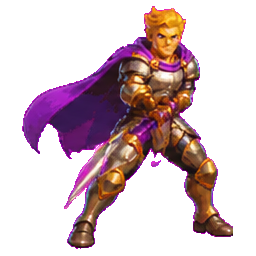
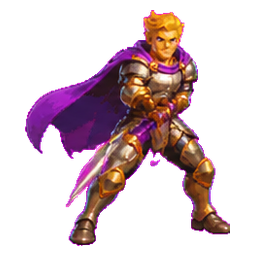
v584: 칼 잘림 수복 — 원시트 재슬라이스 256→236px 스케일(경계 여백 8% 확보), 19프레임 경계 접촉 클리핑 해소 — RUN_GATES:ALL_OK

Changed region(s): [[0.0625, 0.0312, 0.9062, 0.9688], [0.375, 0.375, 0.4062, 0.4062]]

diff --git a/royal-arena/index.html b/royal-arena/index.html
@@ -1215,7 +1215,7 @@ html body .info-box #btn-info-close{
   z-index:2 !important}
 html body .info-box #btn-info-close,html body .info-box #btn-info-close *{color:#2b1c05 !important;text-shadow:none !important}
 </style><style id="ui-v507">/* v507: 타이틀 zoom 핏터 상한 — 도움말 닫기 후 메인이 0.8까지 눌리는 급축소 차단(최소 0.93·한 번에 최대 4% 보정) */
-</style><div id="verchip" style="position:fixed;left:6px;bottom:2px;z-index:99990;background:rgba(0,0,0,.55);color:#ffd75e;font:700 10px monospace;padding:2px 6px;opacity:.62;border-radius:8px;pointer-events:none">v583</div><div id="app">
+</style><div id="verchip" style="position:fixed;left:6px;bottom:2px;z-index:99990;background:rgba(0,0,0,.55);color:#ffd75e;font:700 10px monospace;padding:2px 6px;opacity:.62;border-radius:8px;pointer-events:none">v584</div><div id="app">
 
   <!-- ===== 타이틀 ===== -->
   <section id="screen-title">
@@ -1591,7 +1591,7 @@ b.style.setProperty('background-size','auto,100% 100%','important');b.style.setP
 html body #rpane-score{overflow-y:auto !important;max-height:46vh !important;-webkit-overflow-scrolling:touch !important}
 html body .rrow-mirror b{font-size:11px !important;line-height:1.5 !important;white-space:pre-line !important;word-break:keep-all !important;overflow-wrap:anywhere !important;text-align:right !important;max-width:200px !important;font-weight:600 !important}
 </style>
-<script src="js/g1a-art-assets.js?v=583"></script><script src="js/g1b-art-assets.js?v=583"></script><script src="js/g1c-art-assets.js?v=583"></script>
+<script src="js/g1a-art-assets.js?v=584"></script><script src="js/g1b-art-assets.js?v=584"></script><script src="js/g1c-art-assets.js?v=584"></script>
 
 
 
@@ -1603,7 +1603,7 @@ html body .rrow-mirror b{font-size:11px !important;line-height:1.5 !important;wh
 
 
 
-<script src="js/g2-sprite-assets.js?v=583"></script>
+<script src="js/g2-sprite-assets.js?v=584"></script>
 <script id="ui-v510-js">/* v510: 지도·난이도 해금 단일 진실원 — 난이도별 맵 사다리 분리(단계별 해금). 악몽 해금=노멀 전맵 토벌(ra_map_clear_d0>=마지막 idx), 지옥=악몽 전맵 토벌(ra_map_clear_d1>=마지막 idx). 맵 해금은 현재 난이도 사다리에서 순차(clear_d+1). 표시순서≠사다리순서라 이름 매칭으로 사다리 idx 산출(v431 표시-idx 기록 버그 근본 수복). 기존 ra_map_clear_v1은 d0 마이그레이션 원천. */
 (function(){
  function MK(){ return {
@@ -1688,7 +1688,7 @@ setInterval(function(){
 
 
 
-<script src="js/g3-frame-assets.js?v=583"></script>
+<script src="js/g3-frame-assets.js?v=584"></script>
 
 
 
@@ -1699,7 +1699,7 @@ setInterval(function(){
 
 
 
-<script src="js/g4-ux-data.js?v=583"></script>
+<script src="js/g4-ux-data.js?v=584"></script>
 
 
 
@@ -1710,7 +1710,7 @@ setInterval(function(){
 
 
 
-<script src="js/g5-core.js?v=583"></script>
+<script src="js/g5-core.js?v=584"></script>
 
 
 
@@ -1721,19 +1721,7 @@ setInterval(function(){
 
 
 
-<script src="js/g6-battle.js?v=583"></script>
-
-
-
-
-
-
-
-
-
-
-
-<script src="js/g7-ui-systems.js?v=583"></script>
+<script src="js/g6-battle.js?v=584"></script>
 
 
 
@@ -1745,7 +1733,19 @@ setInterval(function(){
 
 
 
-<script src="js/g8-boot.js?v=583"></script><script src="js/g9-wide.js?v=583"></script><script src="js/g10-techtree.js?v=583"></script><script src="js/g11-camera.js?v=583"></script><script src="js/g12-camera-ui.js?v=583"></script>
+<script src="js/g7-ui-systems.js?v=584"></script>
+
+
+
+
+
+
+
+
+
+
+
+<script src="js/g8-boot.js?v=584"></script><script src="js/g9-wide.js?v=584"></script><script src="js/g10-techtree.js?v=584"></script><script src="js/g11-camera.js?v=584"></script><script src="js/g12-camera-ui.js?v=584"></script>
 
 
 

diff --git a/royal-arena/sw.js b/royal-arena/sw.js
@@ -1,4 +1,4 @@
-const CACHE = 'royal-arena-v583';
+const CACHE = 'royal-arena-v584';
 /* v449: 점진 캐싱 수복 — 구조 결함(install addAll 전량 실패) 제거.
    구버전: CORE 전량(330종·81MB) addAll → 자산 1개 실패 시 install reject → 기기가 구버전에 무기한 갇힘(v446 지연·미갱신 사고의 근원).
    신버전: ①install은 셸(html·js·아이콘, ~2MB)만 allSettled 선캐시 ②전체 assets는 activate 이후 백그라운드 프리페치(allSettled — 절대 reject 안 함)
